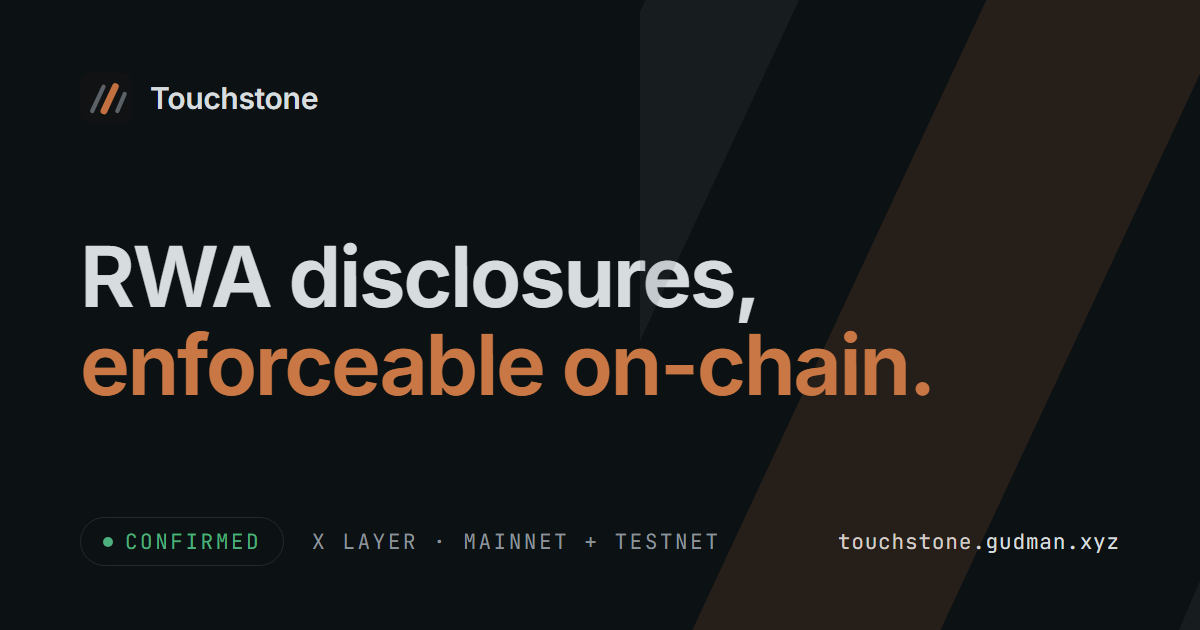
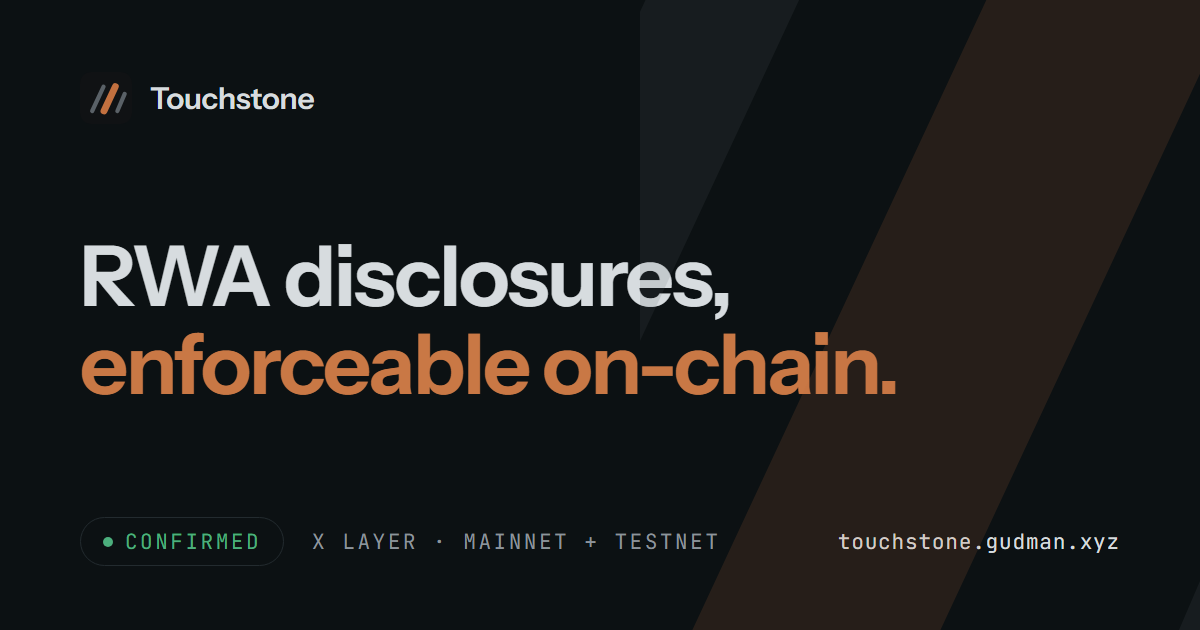
The site sets its wordface in Instrument Sans
The owner asked for the face RedStone's site wears, or better. RedStone self-hosts
Sequel Sans — a commercial family this repository cannot legally redistribute — so the
site moves to the nearest open equal: Instrument Sans (OFL 1.1, license committed beside
the file), a neutral Swiss grotesque in the same register, shipped as the latin subset
of the variable weight axis. That subset is glyph-for-glyph what the Inter subset it
replaces carried — verified against both cmaps before the swap, so nothing that rendered
before falls back differently now — and at 30 KB it is lighter than the 48 KB it
replaces. Every sans weight in the stylesheet (400–640) sits inside the 400–700 axis;
the one font-weight below that is JetBrains Mono's, which stays: the terminal voice is
part of the brand. Inter's cv05/ss01 feature settings left with it — feature tags for a
font no longer present are configuration for nothing.

The social card re-rendered in the new face. Verified: document.fonts.check confirms
Instrument Sans loads (not a fallback), zero console errors, rebuilt site passes
--check, truth gate green.

Changed region(s): [[0.0617, 0.3921, 0.7708, 0.6333], [0.1233, 0.1206, 0.2775, 0.181]]

diff --git a/site2/assets/style.css b/site2/assets/style.css
@@ -6,9 +6,12 @@
    scripted island styled by the dark-terminal mode at the end of this file. */
 
 @font-face {
-  font-family: "Inter";
-  src: url("/assets/fonts/InterVariable.woff2") format("woff2");
-  font-weight: 100 900;
+  /* Instrument Sans (OFL) — the latin subset of the variable weight axis, which is
+     glyph-for-glyph what the Inter subset it replaced carried. The axis is 400–700;
+     every sans weight this sheet uses sits inside it. */
+  font-family: "Instrument Sans";
+  src: url("/assets/fonts/InstrumentSans-var.woff2") format("woff2");
+  font-weight: 400 700;
   font-style: normal;
   font-display: swap;
 }
@@ -85,10 +88,9 @@ body {
   margin: 0;
   background: var(--paper);
   color: var(--ink-700);
-  font-family: "Inter", system-ui, -apple-system, "Segoe UI", sans-serif;
+  font-family: "Instrument Sans", system-ui, -apple-system, "Segoe UI", sans-serif;
   font-size: var(--t-body);
   line-height: 1.7;
-  font-feature-settings: "cv05" 1, "ss01" 1;
 }
 
 h1, h2, h3, h4 {
@@ -564,7 +566,7 @@ pre code {
   color: var(--ink-500);
   max-width: 70ch;
 }
-.flow text { font-family: "Inter", system-ui, sans-serif; }
+.flow text { font-family: "Instrument Sans", system-ui, sans-serif; }
 
 /* ---------- movements / steps ---------- */
 
@@ -1321,7 +1323,7 @@ blockquote cite {
   .policy-tab { width: 100%; border: 0; border-left: 2px solid transparent; background: transparent; color: var(--ink-500); text-align: left; padding: 16px 14px; cursor: pointer; font: 600 12px/1.35 "JetBrains Mono", monospace; }
   .policy-tab:hover, .policy-tab:focus-visible { color: var(--ink-900); background: var(--surface); }
   .policy-tab[aria-selected="true"] { border-left-color: var(--copper); color: var(--ink-900); background: var(--surface); }
-  .policy-tab small { display: block; margin-top: 7px; color: var(--ink-400); font: 11px/1.4 "Inter", sans-serif; }
+  .policy-tab small { display: block; margin-top: 7px; color: var(--ink-400); font: 11px/1.4 "Instrument Sans", sans-serif; }
   .policy-panel { padding: 34px; min-height: 318px; }
   .policy-panel[hidden] { display: none; }
   .policy-panel-top { display: flex; justify-content: space-between; gap: 18px; align-items: start; }
